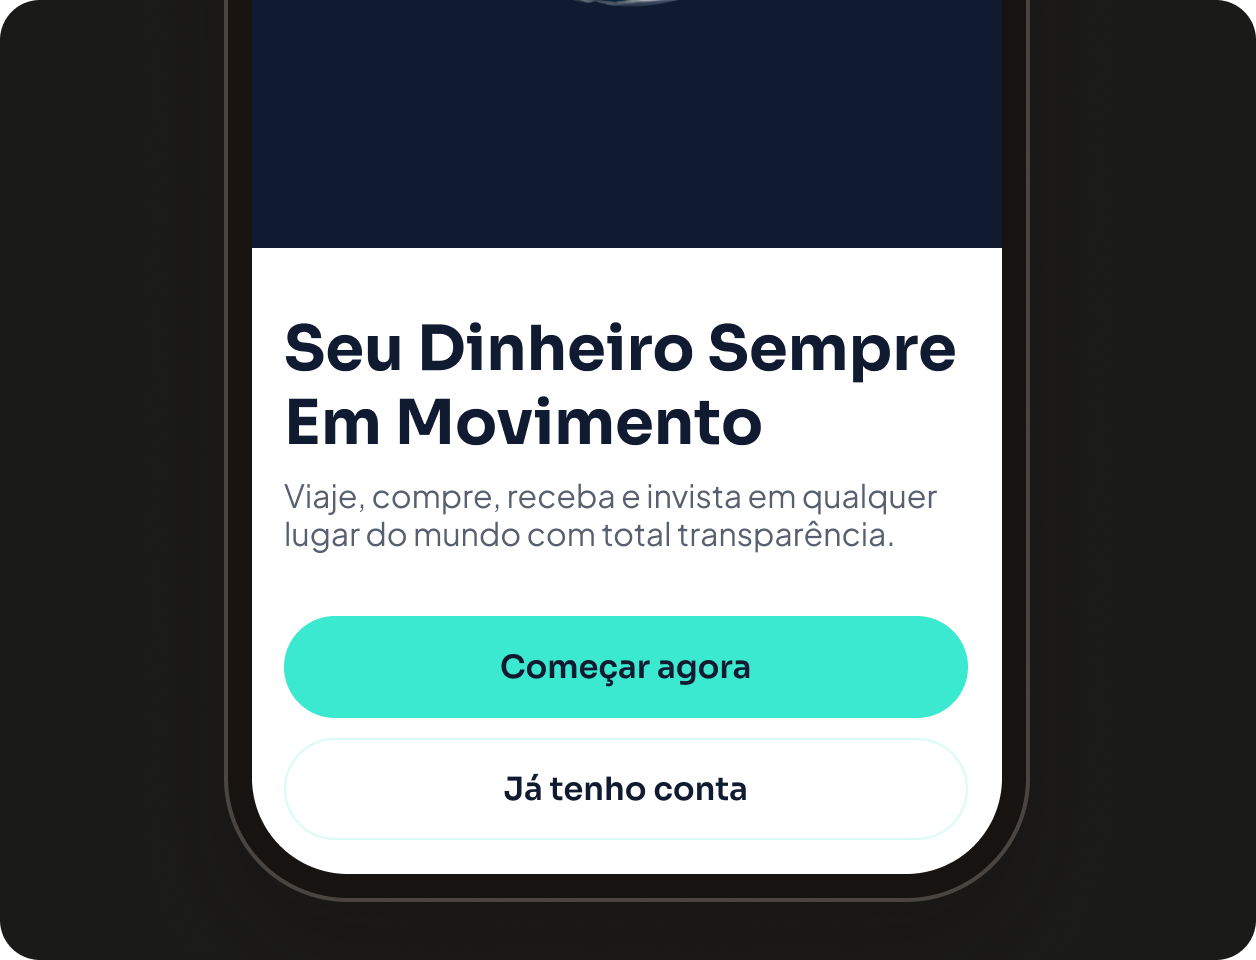
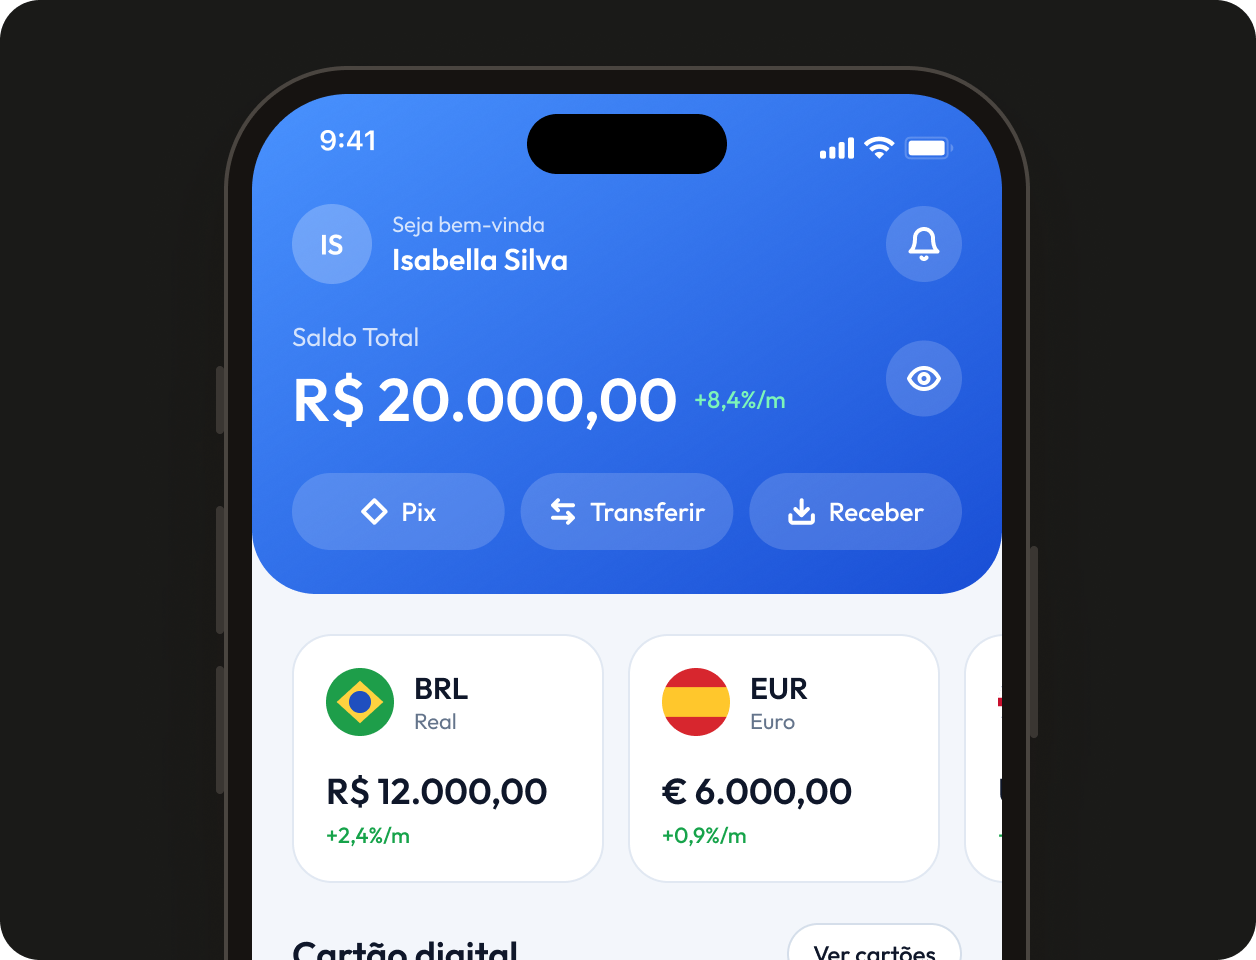
Preview de compartilhamento (OG/Twitter), Lari e Assistente em 2025, Tela 02 da Lari e grafias
- Base: canonical, og:url/site_name/locale, og:image 1200x630 em JPEG leve (imagem padrão do site ou capa do case), twitter:card, theme-color
- astro.config: site público para links absolutos
- Lari: Tela 02 agora é a tela Home (era a mesma tela do onboarding cortada); "A Lari é uma fintech"
- Lari e Assistente de Sala passam a 2025

diff --git a/src/content/cases/lari-fintech-app.md b/src/content/cases/lari-fintech-app.md
@@ -1,9 +1,9 @@
 ---
 title: Lari Fintech App
 order: 2
-year: "2026"
+year: "2025"
 tags: ["Mobile App", "Fintech", "UI/UX"]
-summary: A lari é uma Fintech criada para tornar a vida financeira mais simples para quem vive, viaja e transaciona pelo mundo.
+summary: A Lari é uma fintech criada para tornar a vida financeira mais simples para quem vive, viaja e transaciona pelo mundo.
 cover: ../../assets/images/lari-fintech-app.png
 role: Product Designer
 duration: 2 Meses

diff --git a/src/content/cases/assistente-de-sala.md b/src/content/cases/assistente-de-sala.md
@@ -1,7 +1,7 @@
 ---
 title: Assistente de Sala
 order: 3
-year: "2026"
+year: "2025"
 tags: ["Dashboard", "Design System", "UI"]
 summary: O Assistente de Sala é uma plataforma inteligente criada para apoiar professores no gerenciamento e na avaliação de atividades acadêmicas.
 cover: ../../assets/images/assistente-de-sala.png
